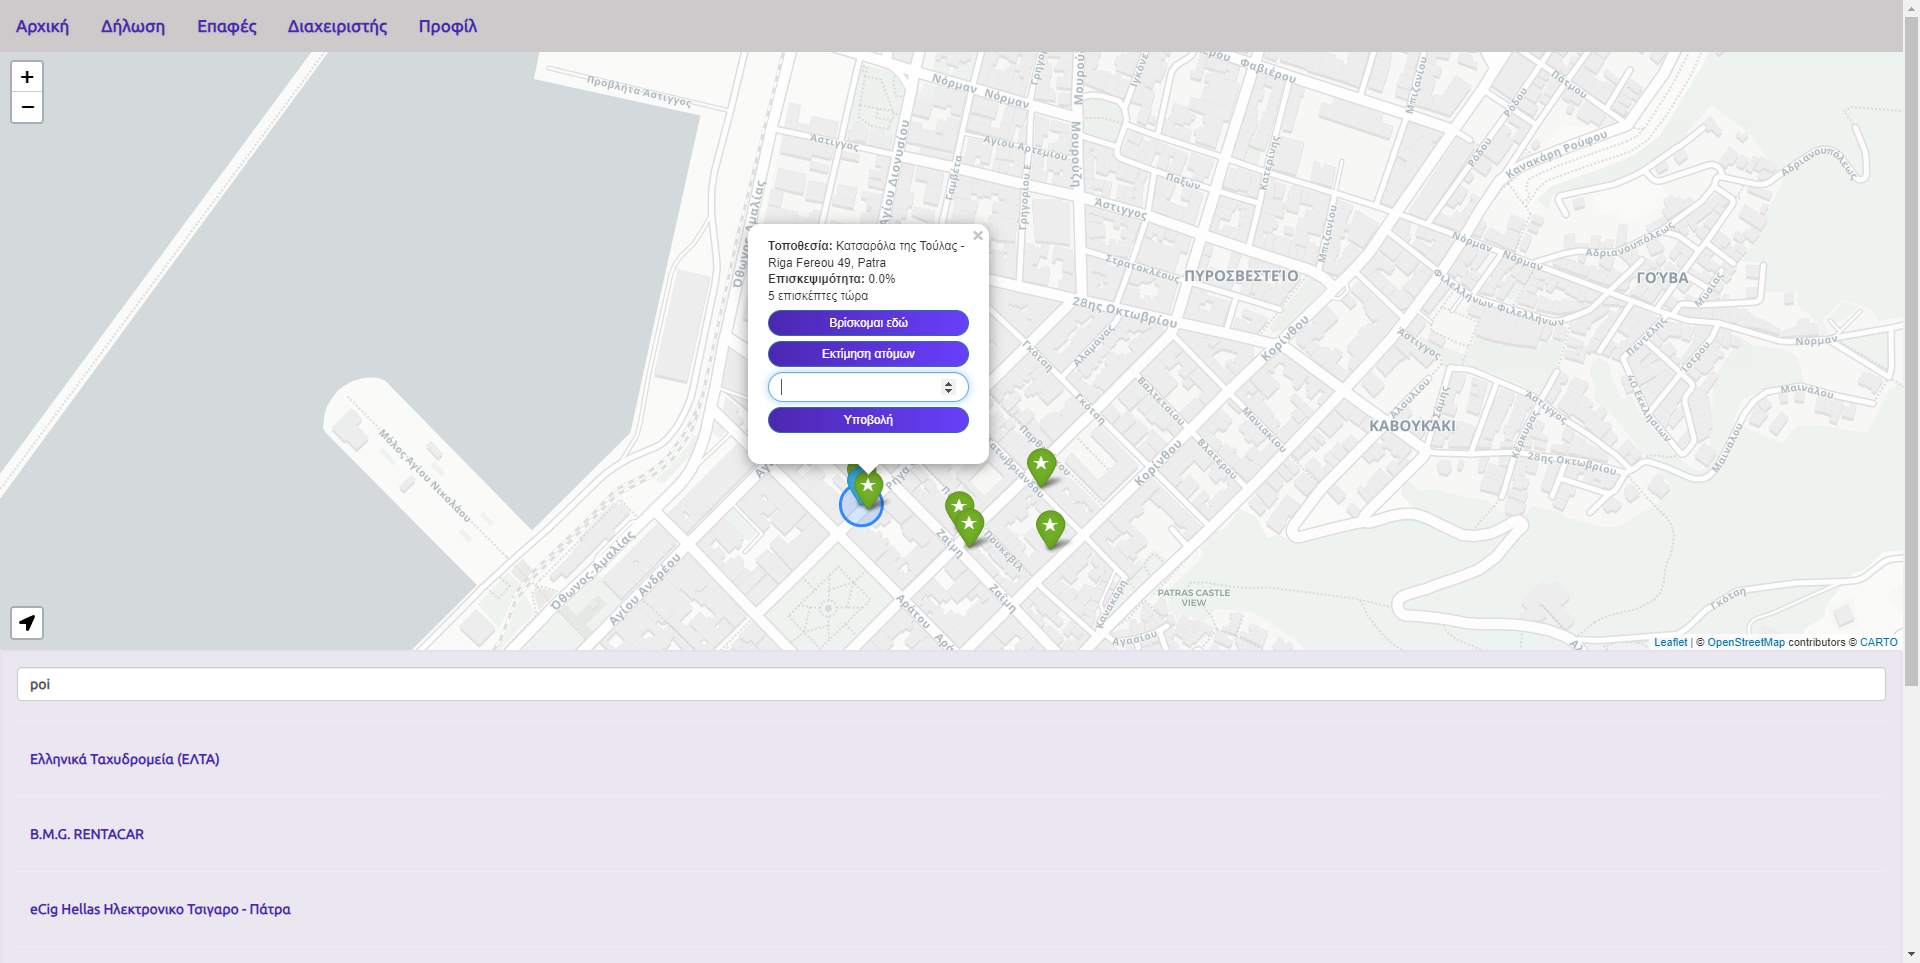
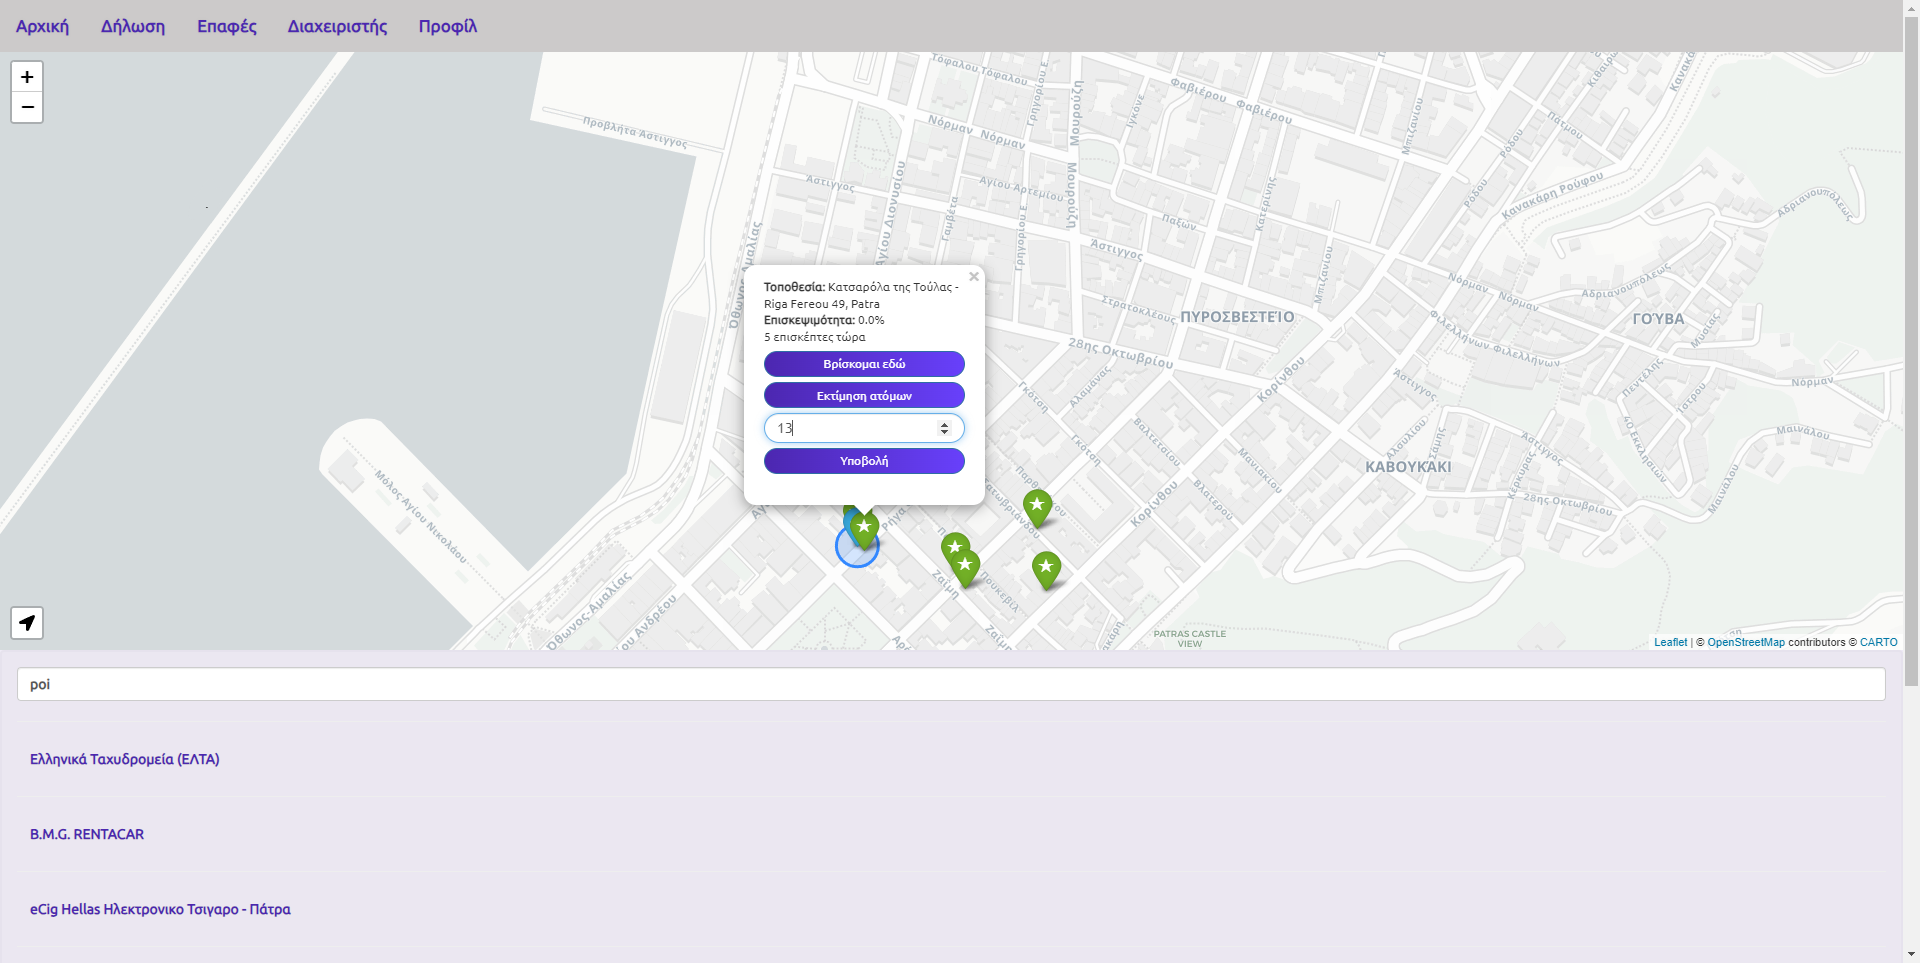
font in popup changed

diff --git a/public/map.js b/public/map.js
@@ -154,14 +154,14 @@ function createPopupContent(POIdata, averagePop3hr) {
         `<span>${POIdata.cur} επισκέπτες τώρα</span>`;
 
     const popupContent2 = `
-        <b>Τοποθεσία: </b>${POIdata.name} - ${POIdata.address}
+        <div class="signnew"><b>Τοποθεσία: </b>${POIdata.name} - ${POIdata.address}
         <br><b>Επισκεψιμότητα: </b>${averagePop3hr.toFixed(1)}%
         <br>${visitText}
-        <button id="insertbut_${POIdata.id}" style="padding: 3px; margin-top: 5px; background: linear-gradient(to right, #4c27b0, #6840fb); border-radius: 15px;" class="btn btn-primary btn-block btn-sm" data-toggle="collapse" data-target="#demo_${POIdata.id}" disabled>Βρίσκομαι εδώ</button>`;
+        <button id="insertbut_${POIdata.id}" style="padding: 3px; margin-top: 5px; background: linear-gradient(to right, #4c27b0, #6840fb); border-radius: 15px;" class="btn btn-primary btn-block btn-sm" data-toggle="collapse" data-target="#demo_${POIdata.id}" disabled>Βρίσκομαι εδώ</button><div class="signnew">`;
 
     return `
         ${popupContent2}
-        <div id="demo_${POIdata.id}" class="collapse">
+        <div id="demo_${POIdata.id}" class="signnew collapse">
             <form action="/visit" method="POST" onsubmit="return confirm('Είστε σίγουροι ότι θέλετε να καταχωρήσετε την επίσκεψη;');">
                 <button style="padding: 3px; margin-top: 5px; background: linear-gradient(to right, #4c27b0, #6840fb); border-radius: 15px;" class="btn btn-primary btn-block btn-sm" type="button" data-toggle="collapse" data-target="#demo2_${POIdata.id}"/>Εκτίμηση ατόμων</button>
                 <div id="demo2_${POIdata.id}" class="collapse">

diff --git a/public/style.css b/public/style.css
@@ -103,6 +103,10 @@ body {
     font-size: 23px;
 }
 
+.signnew {
+  font-family: 'Ubuntu', sans-serif;
+}
+
 .box {
 width: 76%;
 color: rgb(38, 50, 56);
